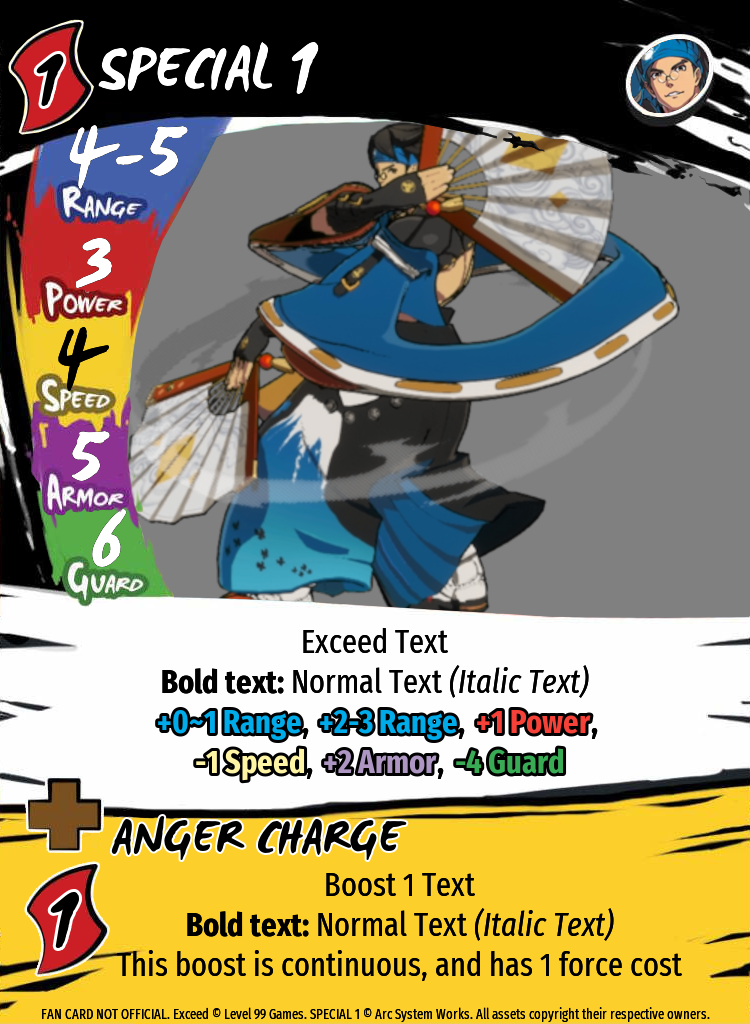
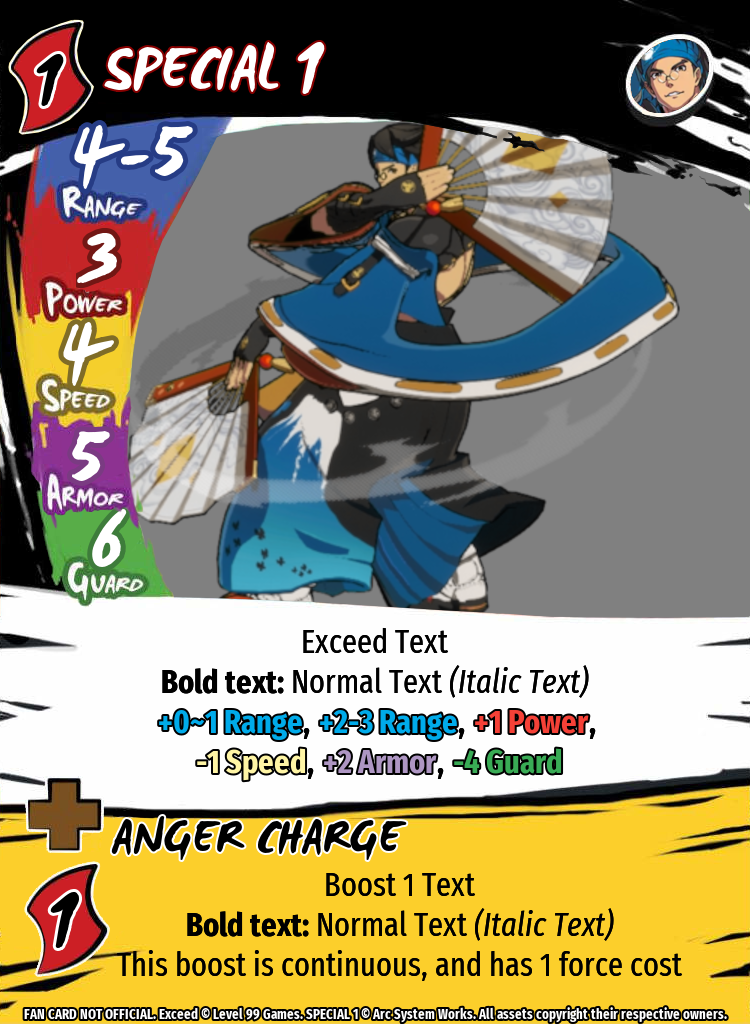
Updated SF Specials to match the cards

diff --git a/scripts/template_manager.py b/scripts/template_manager.py
@@ -20,8 +20,8 @@ card.owner = 'Arc System Works'
 card.copies = 1
 card.text_box = """Exceed Text
 <bold>Bold text:</bold> Normal Text <italic>(Italic Text)</italic>
-<bold><@3#000000><#00abea>+0~1 Range</#></@>, <@3#000000><#00abea>+2-3 Range</#></@>, <@3#000000><#f54137>+1 Power</#></@>,
- <@3#000000><#fff5a5>-1 Speed</#></@>, <@3#000000><#ae96c3>+2 Armor</#></@>, <@3#000000><#39ab55>-4 Guard</#></@></bold>"""
+<bold><@2#000000><#00abea>+0~1 Range</#></@>, <@2#000000><#00abea>+2-3 Range</#></@>, <@2#000000><#f54137>+1 Power</#></@>,
+ <@2#000000><#fff5a5>-1 Speed</#></@>, <@2#000000><#ae96c3>+2 Armor</#></@>, <@2#000000><#39ab55>-4 Guard</#></@></bold>"""
 card.secondary_text_box = '''Boost 1 Text
 <bold>Bold text:</bold> Normal Text <italic>(Italic Text)</italic>
 This boost is continuous, and has 1 force cost'''
